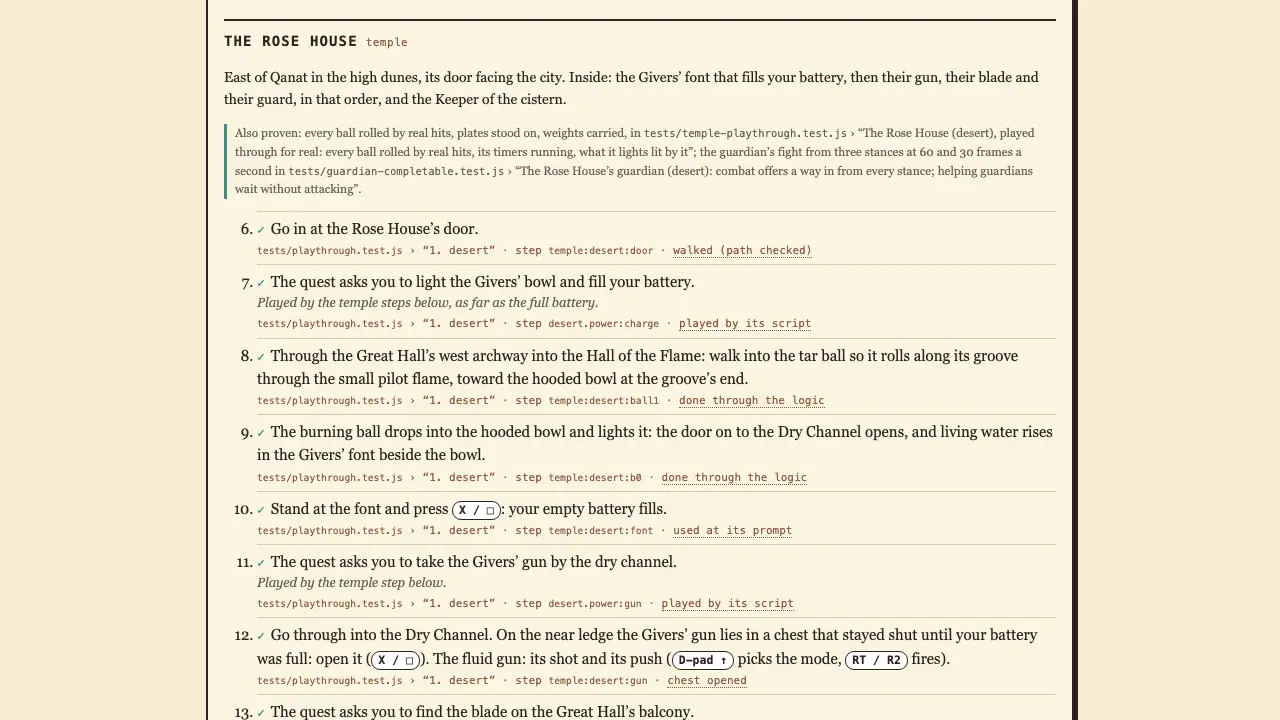
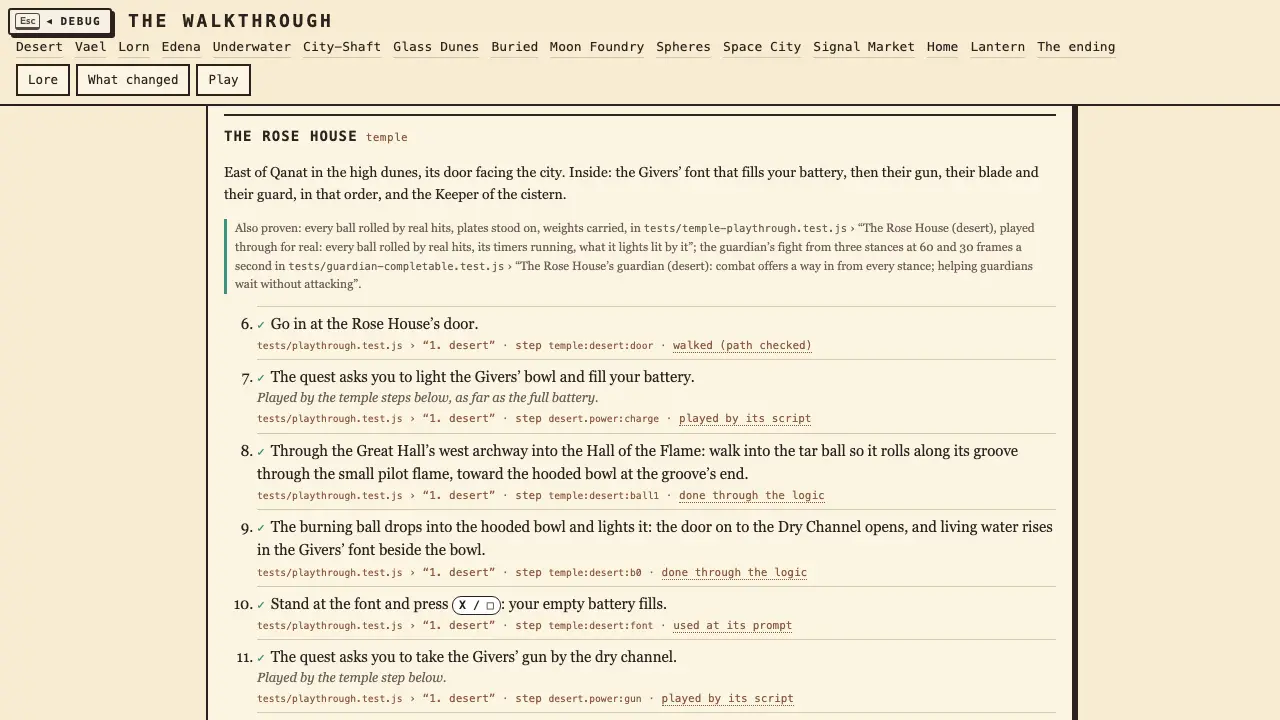
Refs #777: the walkthrough's links land below its header; its pictures retaken on 677d67ee8
A link to a part or a temple (walkthrough.html#desert-desert) scrolled its heading under the sticky header,
which is two or three lines tall: the page now pads the scroll by the header's own height (none on a phone,
where it is not sticky). The changelog's two pictures retaken after the rebase, from this branch's own full
local play-through (17/17 tests, all 447 steps passed).

Web only: the walkthrough is a page of the site, not of the game (engine/bridge-gaps.js).

Changed region(s): [[0.1562, 0.3056, 0.8125, 1.0], [0.0, 0.0, 0.875, 0.275]]

diff --git a/src/changelog-media.js b/src/changelog-media.js
@@ -1439,7 +1439,7 @@ const FROM762 = 'scripts/changelog-shots.mjs at this change (68f1c3302) and its 
 /** (v2.37, issues #765, #767, #773: the enemies' deaths) */
 const DEATHS765 = 'Hand-made strips of the web game (no `view`): a script of mine (scratch, on scripts/changelog-shots.mjs serve/chrome) drove muted headless Chrome (--mute-audio, hiraeth.muted and the volumes at 0 set before load) against its own Vite (port 5420 for the after, 5422 for the before), the Arena at 10:00, clear, High, 1280 × 720, practice with no waves; one foe set down 6 m before the traveller, struck down with Foes.hurt (blade, damage 99, the combo’s third) away from the camera; the game’s own captureView from a pinned eye before the blow and at real times after it (labelled; approximate: a hit-stop and the last foe’s slow motion stretch them), 4 × 2 frames; before: origin/main 95cbaff29 (git archive), after: this branch; 29 October 2026; cwebp -q 72';
 /** (v2.37, issue #777: the walkthrough page) */
-const FROM777 = 'Hand-made (no `view`): walkthrough.html on this branch’s own Vite dev server (port 5460, revision 699d01bda plus the change), headless Chrome (muted, no GPU) at 1280 × 1900, cropped to two 1280 × 720 frames, 29 October 2026; its status file, put there for the picture only, is the walkthrough-status.json this branch’s full local play-through wrote (every part passed), the file the daily run writes and the deploy puts on the site';
+const FROM777 = 'Hand-made (no `view`): walkthrough.html on this branch’s own Vite dev server (port 5461, revision 677d67ee8 plus the change), headless Chrome (muted, no GPU) at a 1280 × 720 viewport, the second picture opened at its link to the Rose House, 29 October 2026; its status file, put there for the picture only, is the walkthrough-status.json this branch’s full local play-through wrote (17 of 17 tests passed, all 447 steps marked), the file the daily run writes and the deploy puts on the site, so “Last daily run” here is that local run';
 
 export const CHANGELOG_MEDIA = {
   '2.37': [

diff --git a/src/walkthrough-page/main.js b/src/walkthrough-page/main.js
@@ -11,6 +11,10 @@ const draw = (status) => {
   $('#walkthrough').innerHTML = main;
 };
 draw(null);
+// (a link to a part or a temple lands below the sticky header, however many lines it wraps to; on a phone it is not sticky)
+const pad = () => { const h = $('body > header'); document.documentElement.style.scrollPaddingTop = getComputedStyle(h).position === 'sticky' ? `${h.offsetHeight + 8}px` : '0px'; };
+pad();
+addEventListener('resize', pad);
 if (location.hash) document.getElementById(location.hash.slice(1))?.scrollIntoView();
 // (the daily run's marks, when this copy of the site has them: a bundled copy or a dev server has none)
 fetch('./walkthrough/status.json', { cache: 'no-cache' })
